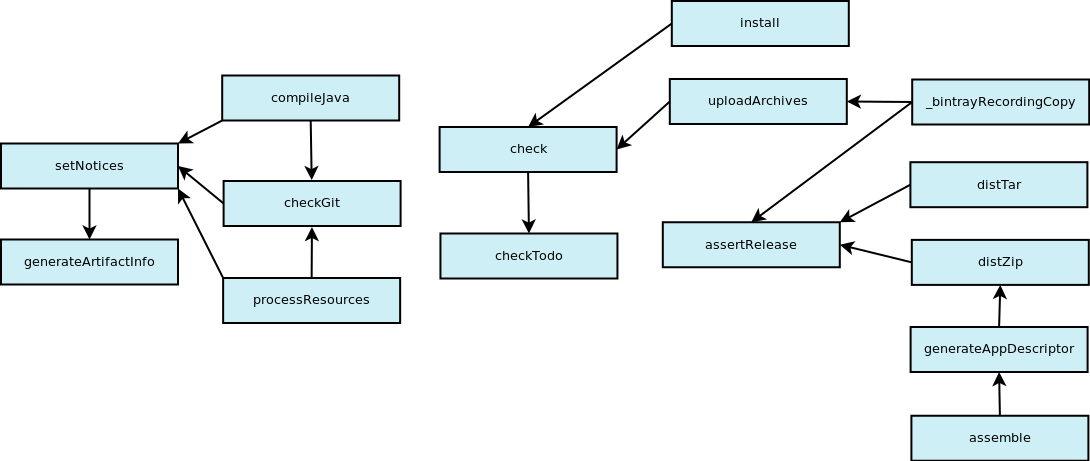
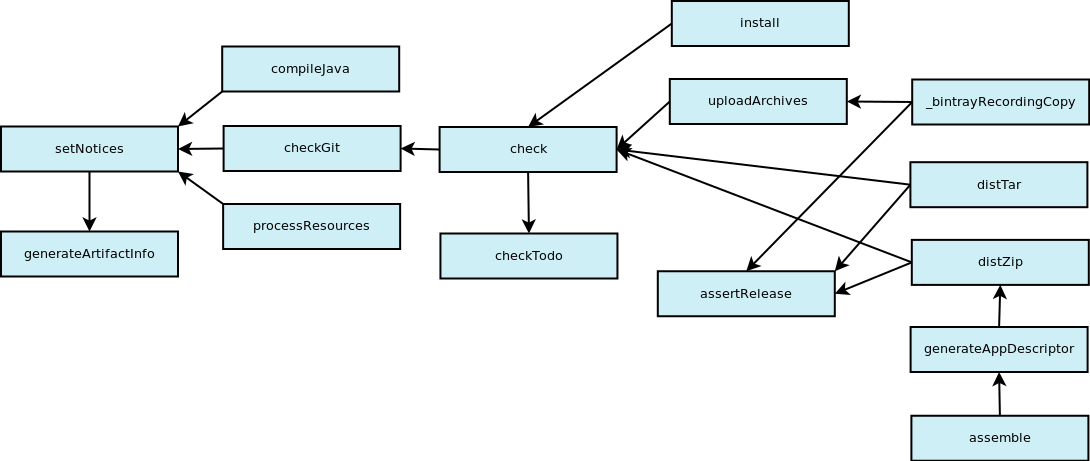
Enhance the task dependencies

diff --git a/README.md b/README.md
@@ -117,8 +117,6 @@ This strategy simplifies deployment to Bintray
 
   * For GUI applications (the default), use **javaw** in lieu of **java** on Windows
 
-* Disable the **distTar** task for the application plugin - focusing on **distZip**
-
 * the **checkTodo** task will fail if **release** is *true*
 
 * Setup tasks dependencies (see below)
